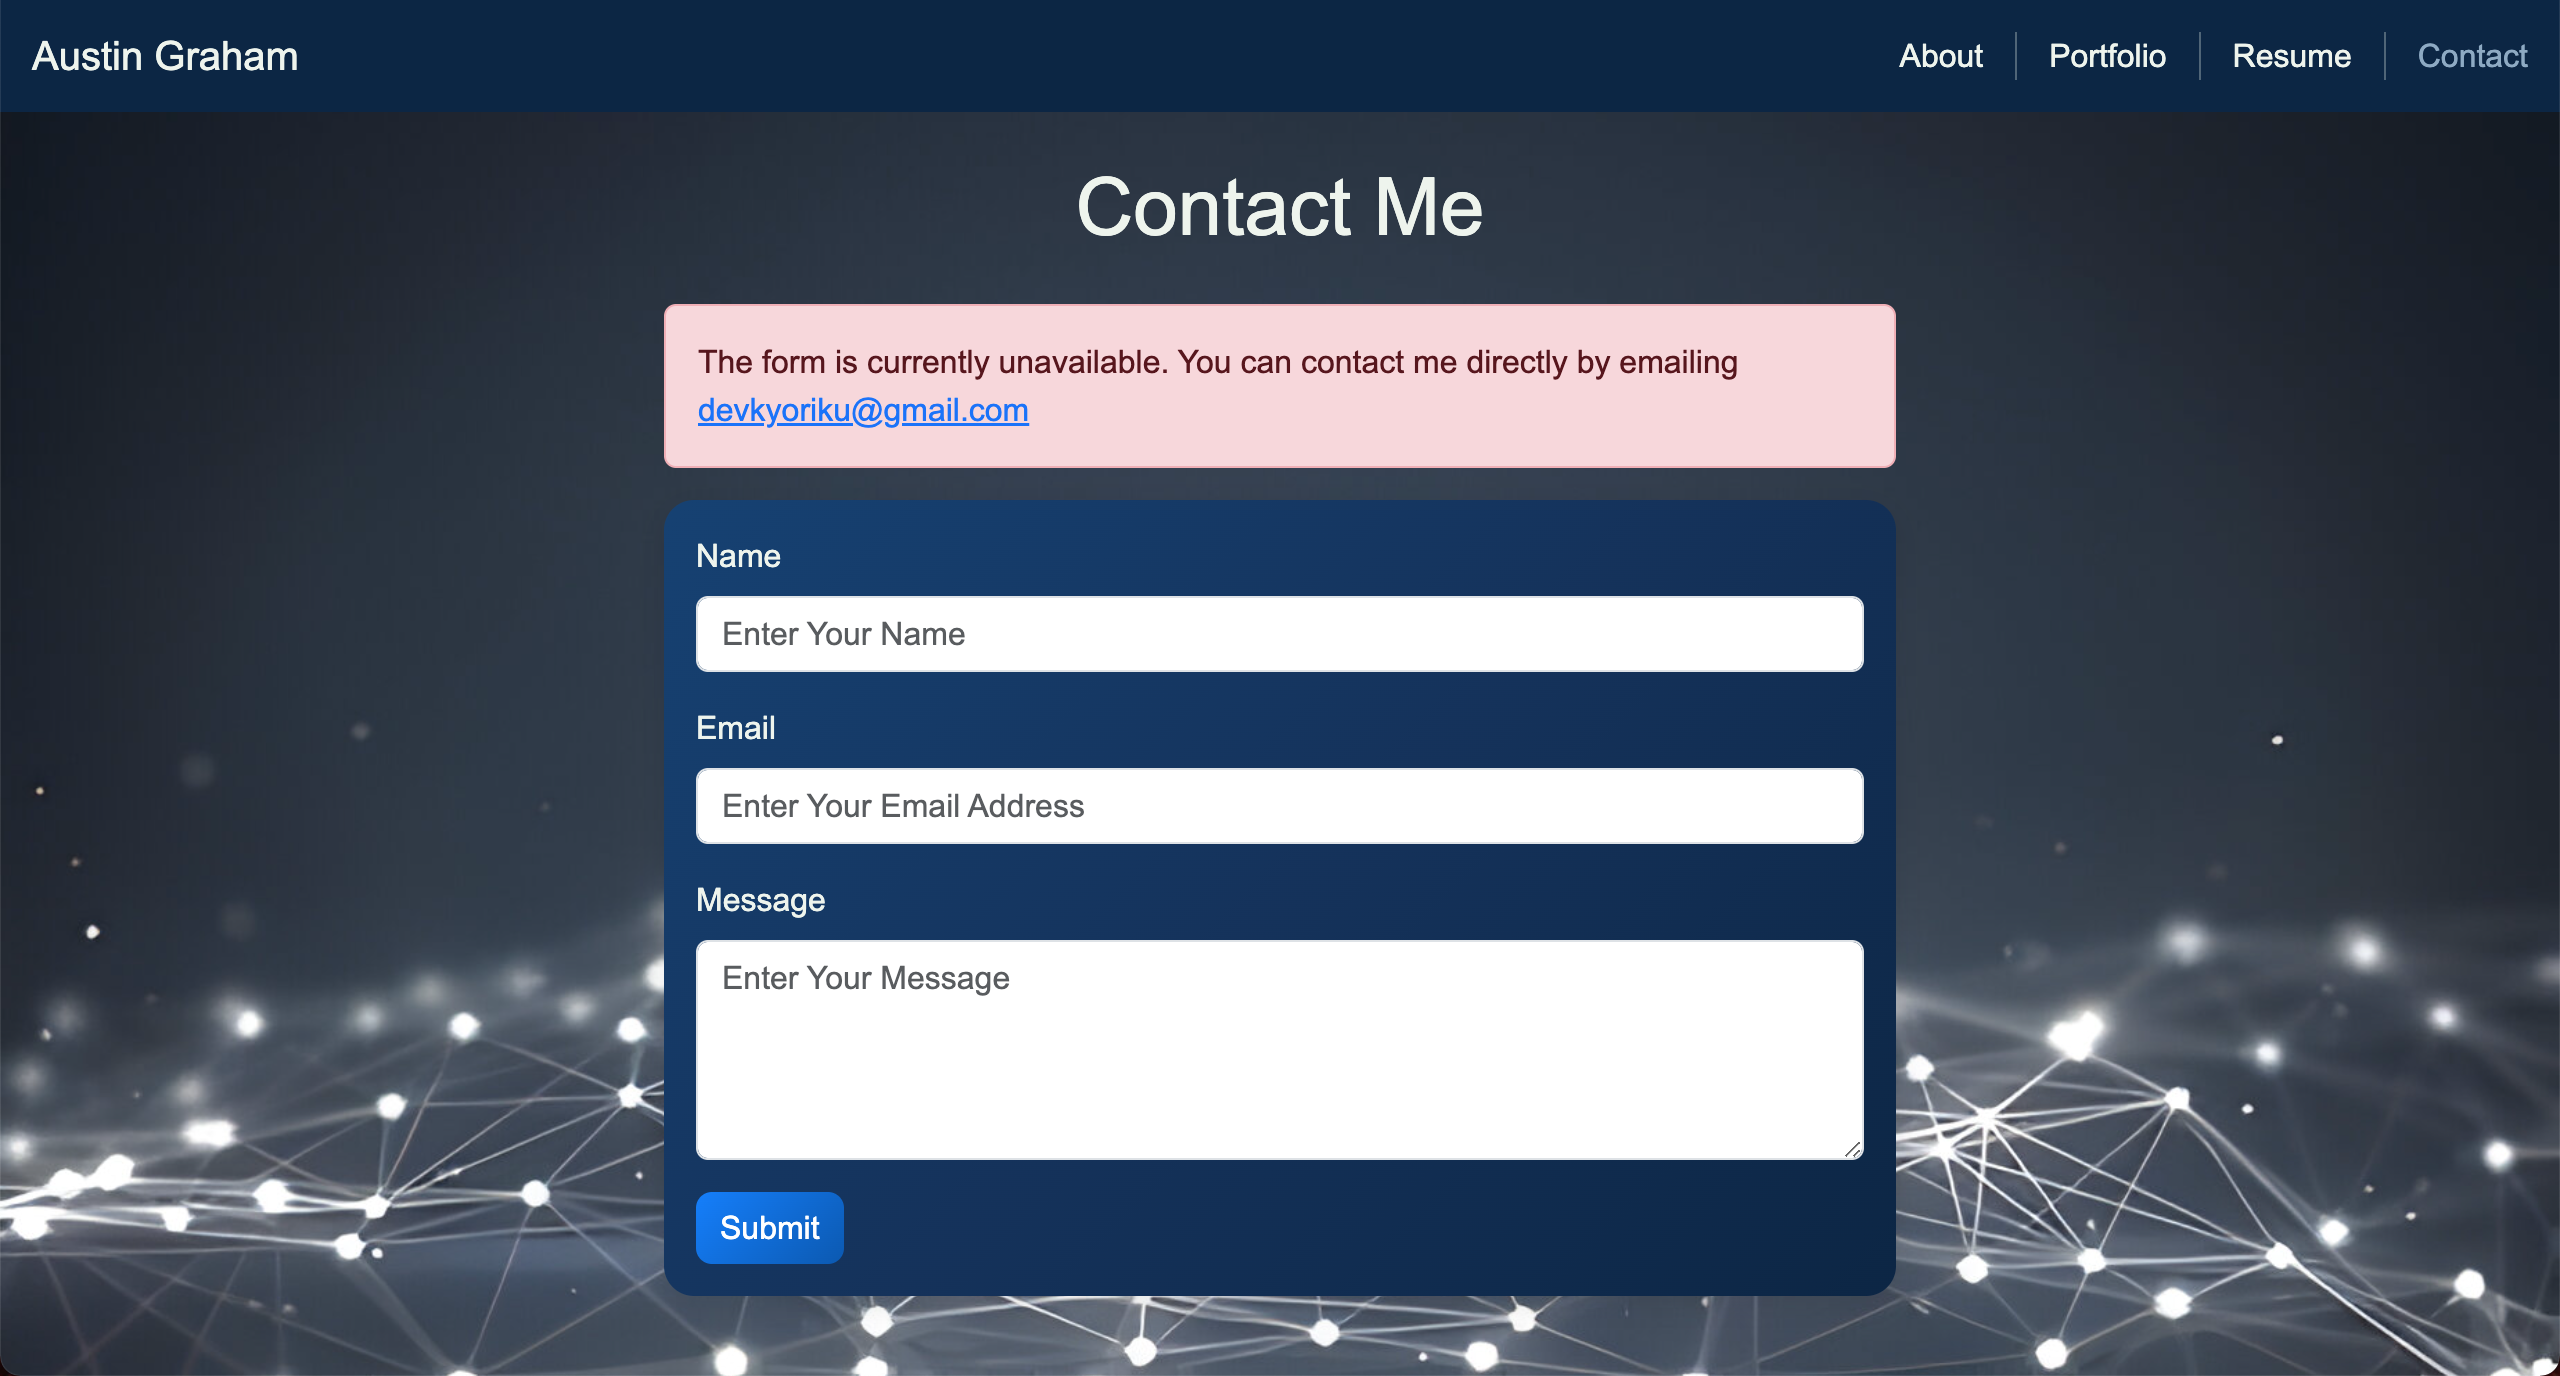
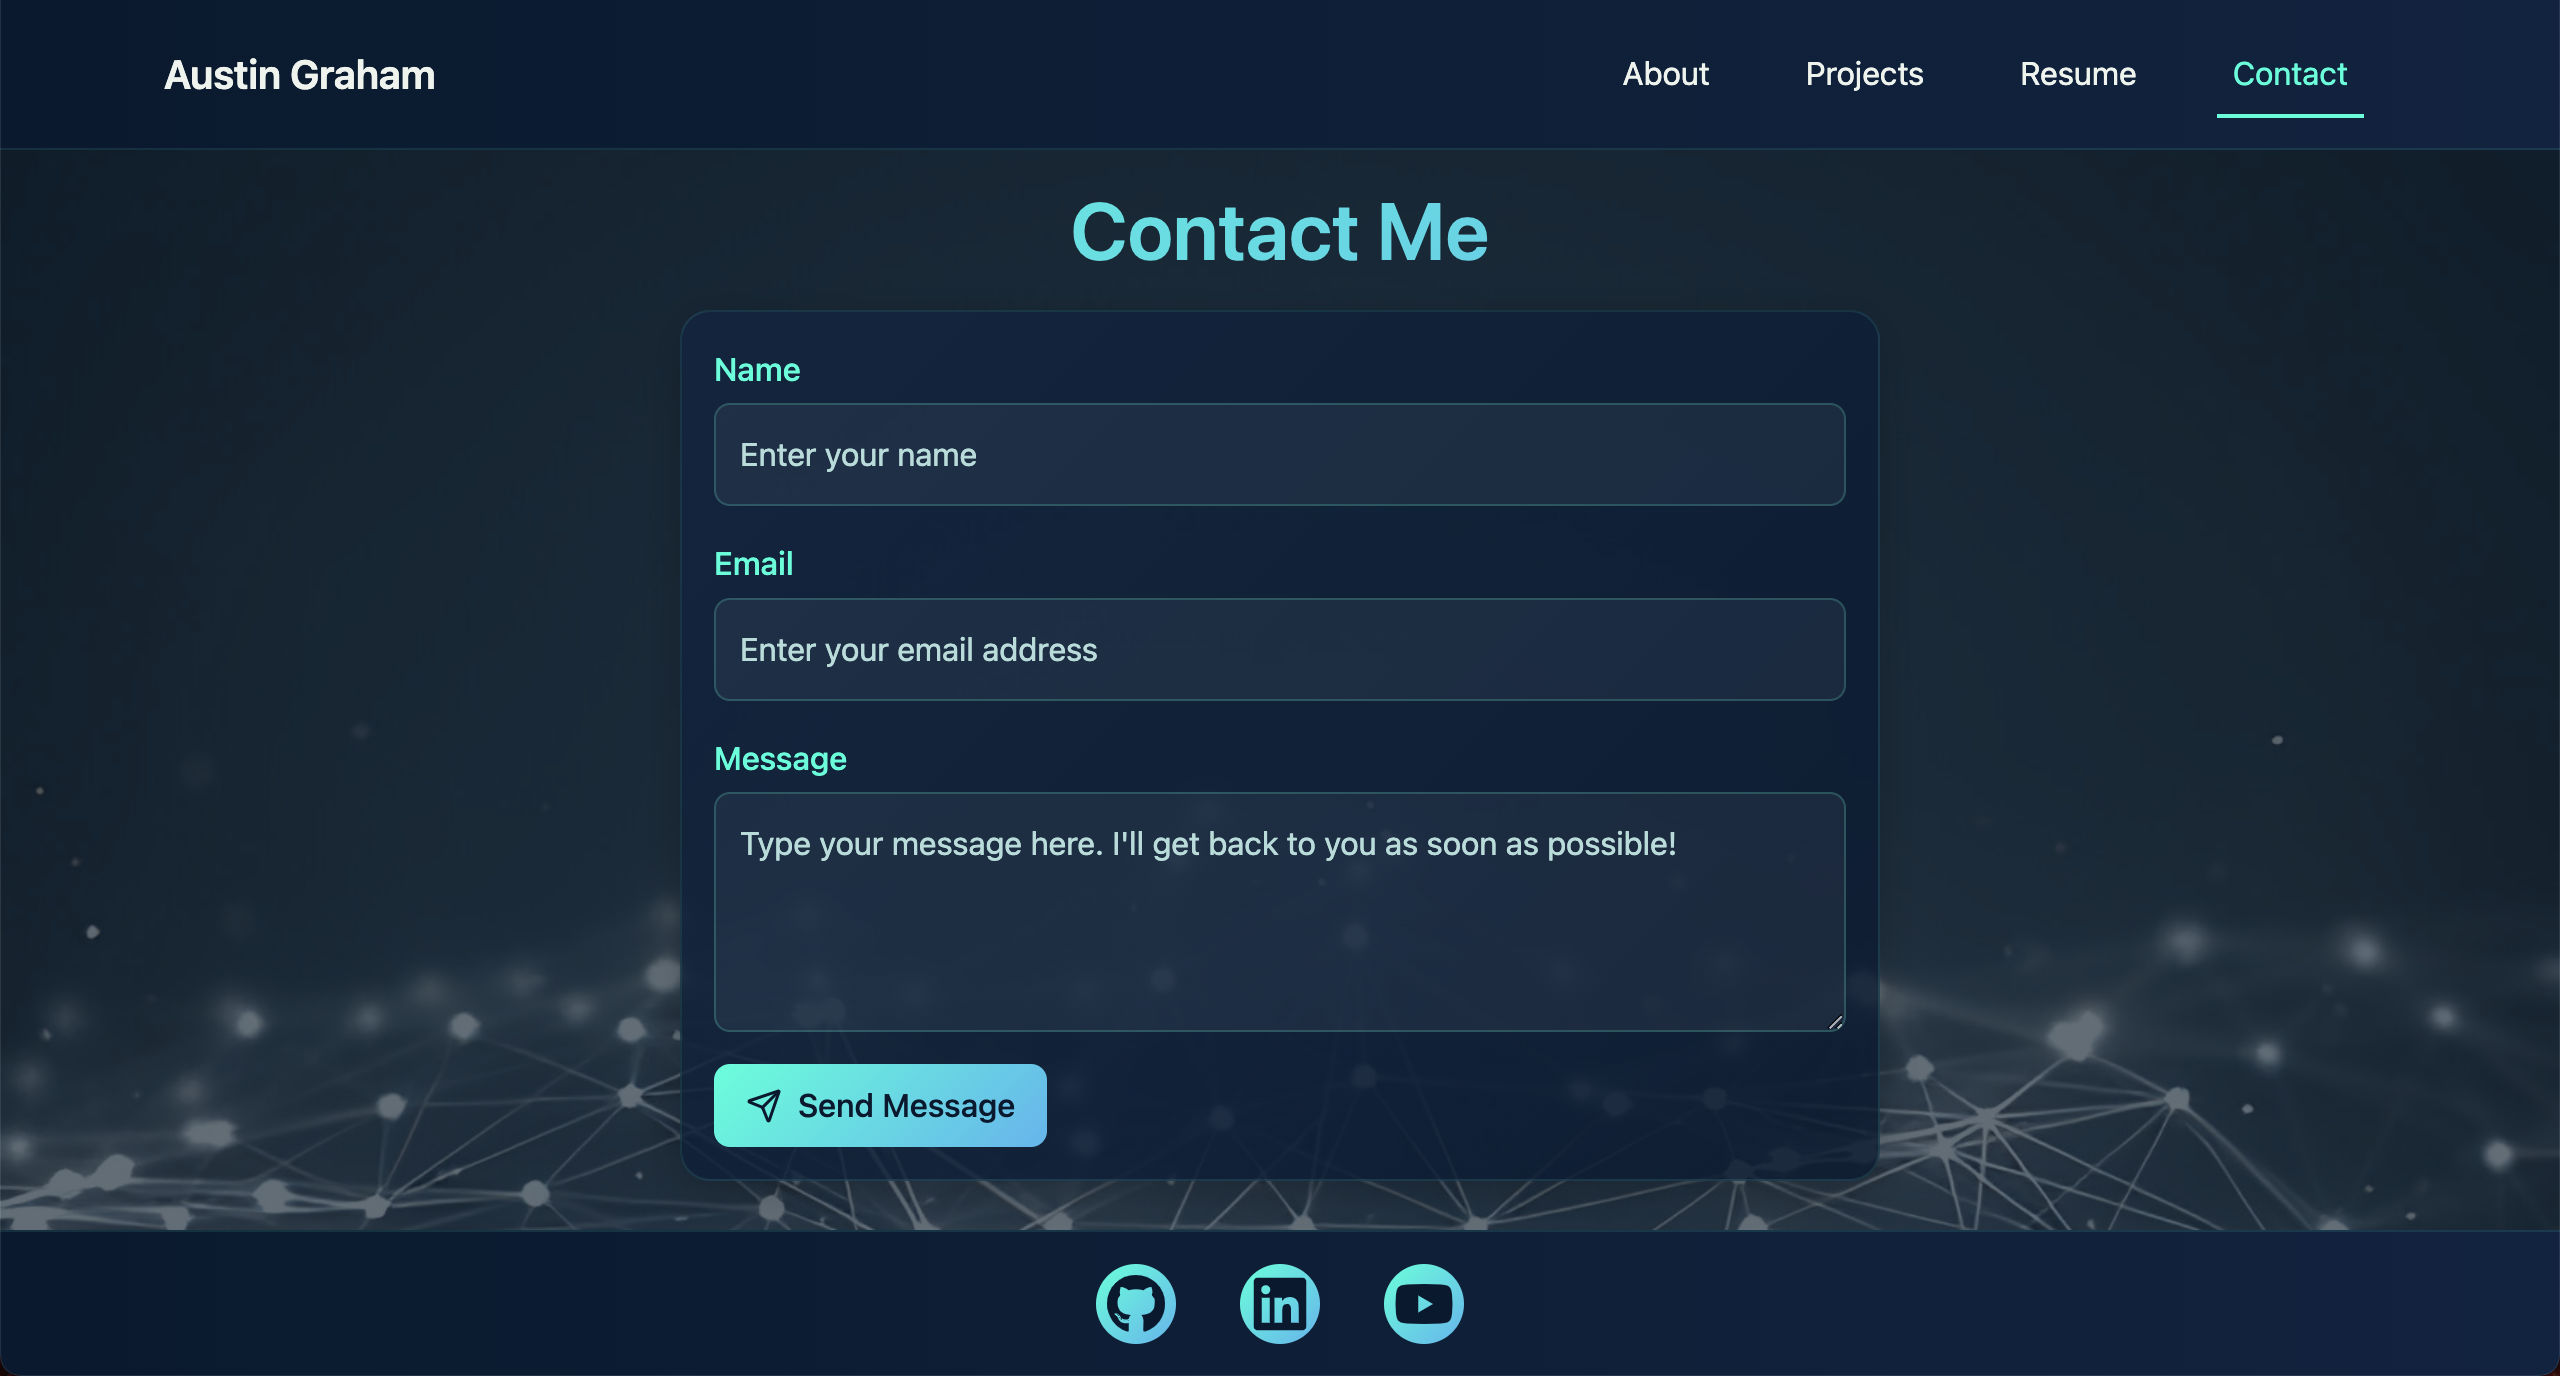
improved mobile layout, SEO elements, and documentation

diff --git a/index.html b/index.html
@@ -1,18 +1,37 @@
 <!doctype html>
 <html lang="en">
-
 <head>
   <meta charset="UTF-8" />
-  <link rel="icon" type="image/svg+xml" href="./src/assets/react.svg" />
+  <link rel="icon" type="image/svg+xml" href="/favicon.svg" />
   <meta name="viewport" content="width=device-width, initial-scale=1.0" />
-  <meta name="description"
-    content="Austin's portfolio showcasing his skills as a Junior Full Stack Web Developer with expertise in JavaScript, React.js, Node.js, Express.js, and databases such as MySQL and MongoDB." />
-  <title>Austin's React Portfolio</title>
+  
+  <!-- Primary Meta Tags -->
+  <title>Austin Graham | Full Stack Developer Portfolio</title>
+  <meta name="title" content="Austin Graham | Full Stack Developer Portfolio">
+  <meta name="description" content="Full Stack Developer based in Toronto, specializing in JavaScript, React, Node.js, Express, MySQL, and MongoDB. View my projects and get in touch.">
+  <meta name="keywords" content="Full Stack Developer, Web Developer, JavaScript, React, Node.js, Toronto Developer, Portfolio">
+  <meta name="author" content="Austin Graham">
+
+  <!-- Open Graph / Facebook -->
+  <meta property="og:type" content="website">
+  <meta property="og:url" content="https://www.austingraham.ca">
+  <meta property="og:title" content="Austin Graham | Full Stack Developer Portfolio">
+  <meta property="og:description" content="Full Stack Developer based in Toronto, specializing in JavaScript, React, Node.js, Express, MySQL, and MongoDB. View my projects and get in touch.">
+  <meta property="og:image" content="https://www.austingraham.ca/screenshots/about.jpg">
+
+  <!-- Twitter -->
+  <meta property="twitter:card" content="summary_large_image">
+  <meta property="twitter:url" content="https://www.austingraham.ca">
+  <meta property="twitter:title" content="Austin Graham | Full Stack Developer Portfolio">
+  <meta property="twitter:description" content="Full Stack Developer based in Toronto, specializing in JavaScript, React, Node.js, Express, MySQL, and MongoDB. View my projects and get in touch.">
+  <meta property="twitter:image" content="https://www.austingraham.ca/screenshots/about.jpg">
+
+  <!-- Theme Color for browsers -->
+  <meta name="theme-color" content="#0a192f">
 </head>
 
 <body>
   <div id="root"></div>
   <script type="module" src="/src/main.jsx"></script>
 </body>
-
 </html>

diff --git a/src/styles/Portfolio.css b/src/styles/Portfolio.css
@@ -10,19 +10,8 @@
   font-weight: 600;
 }
 
-/* .project-grid {
-  --bs-gutter-y: 0.75rem; 
-  --bs-gutter-x: 1.5rem;   
-}
-
-@media (min-width: 768px) { 
-  .project-grid {
-    --bs-gutter-y: 1.5rem; 
-  }
-} */
-
-@media (max-width: 768px) {  /* Mobile only */
+/* @media (max-width: 768px) { 
   .project-grid {
     --bs-gutter-y: 0.75rem !important;
   }
-}
+} */

diff --git a/src/styles/Navigation.css b/src/styles/Navigation.css
@@ -57,3 +57,13 @@
   background-color: #64ffda;
   color: #64ffda !important;
 }
+
+/* Add this new selector to handle hover state */
+.navbar-nav:hover .nav-link.active::after {
+  width: 0;
+}
+
+/* Modify the hover state for the current link */
+.navbar-nav:hover .nav-link:hover::after {
+  width: 100%;
+}

diff --git a/src/styles/Contact.css b/src/styles/Contact.css
@@ -158,9 +158,7 @@ textarea.form-input {
 
 /* Responsive adjustments */
 @media (max-width: 768px) {
-  .contact-form {
-    padding: 1.5rem;
-  }
+
   
   .submit-button {
     width: 100%;

diff --git a/src/styles/Resume.css b/src/styles/Resume.css
@@ -20,7 +20,7 @@
 .resume-download-container {
   display: flex;
   justify-content: center;
-  margin-top: 1.5rem;
+  margin-top: 1rem;
 }
 
 .resume-button {

diff --git a/src/styles/About.css b/src/styles/About.css
@@ -80,3 +80,9 @@ body::before {
     height: 32px;
   }
 }
+
+@media (max-width: 768px) {
+  .content-card {
+    padding: 1rem;
+  }
+}

diff --git a/README.md b/README.md
@@ -10,9 +10,9 @@
 [![Node.js](https://img.shields.io/badge/Node.js-393?style=for-the-badge&logo=nodedotjs&logoColor=fff)](https://nodejs.org/en)
 [![Netlify](https://img.shields.io/badge/netlify-%23000000.svg?style=for-the-badge&logo=netlify&logoColor=#00C7B7)](https://www.netlify.com/)
 
-
 ## Table of Contents
 - [Description](#description)
+  - [Features](#features)
   - [Deployed Site](#deployed-site)
 - [Screenshots](#screenshots)
 - [Installation](#installation)
@@ -23,18 +23,32 @@
 ## Description
 Welcome to my React portfolio! Here, I showcase my latest projects and skills as a web developer. Built with React, this dynamic single-page application highlights my technical expertise and offers a modern browsing experience.
 
-I've designed this portfolio with recruiters in mind, emphasizing my experience in creating single-page applications. Its sleek design and intuitive navigation ensure a seamless experience across all devices, allowing you to easily explore my work and get in touch for collaborations.
+I've designed this portfolio with both recruiters and user experience in mind, featuring:
+- Responsive design optimized for all devices
+- Intuitive navigation with visual feedback
+- Integrated contact form with validation
+- SEO optimization for better visibility
+- Custom branding elements
 
 By leveraging React, I demonstrate my proficiency in a leading JavaScript library. This portfolio reflects my personality, creativity, and passion for web development.
 
 Thank you for visiting!
 
+### Features
+- Mobile-responsive design ensuring a seamless experience across all devices
+- Interactive contact form with real-time validation and form submission
+- Project showcase with tech stack icons and live demo links
+- Custom favicon and consistent branding throughout
+- Social media meta tags for optimal sharing
+- Smooth animations and transitions
+- Clean, modern user interface
+
 ### Deployed Site
-[React Portfolio on Netlify](https://kyoriku-react-portfolio.netlify.app/)
+View my portfolio at [www.austingraham.ca](https://www.austingraham.ca)
 
 ## Screenshots
 ![about](public/screenshots/about.jpg)
-![portfolio](public/screenshots/portfolio.jpg)
+![portfolio](public/screenshots/projects.jpg)
 ![resume](public/screenshots/resume.jpg)
 ![contact](public/screenshots/contact.jpg)
 
@@ -58,7 +72,7 @@ To install this project locally, follow these steps:
 **Running Locally**
 - To run the project locally, use the following command:
   ```bash
-  npm start
+  npm run dev
   ```
   This will start the development server and open the portfolio in your default web browser.
 
